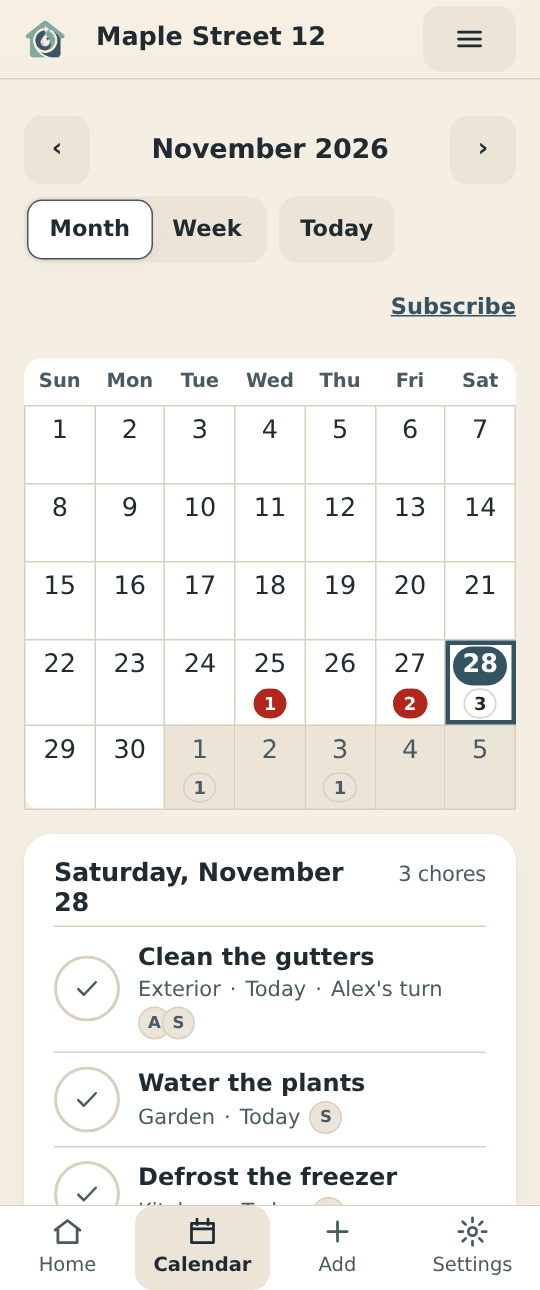
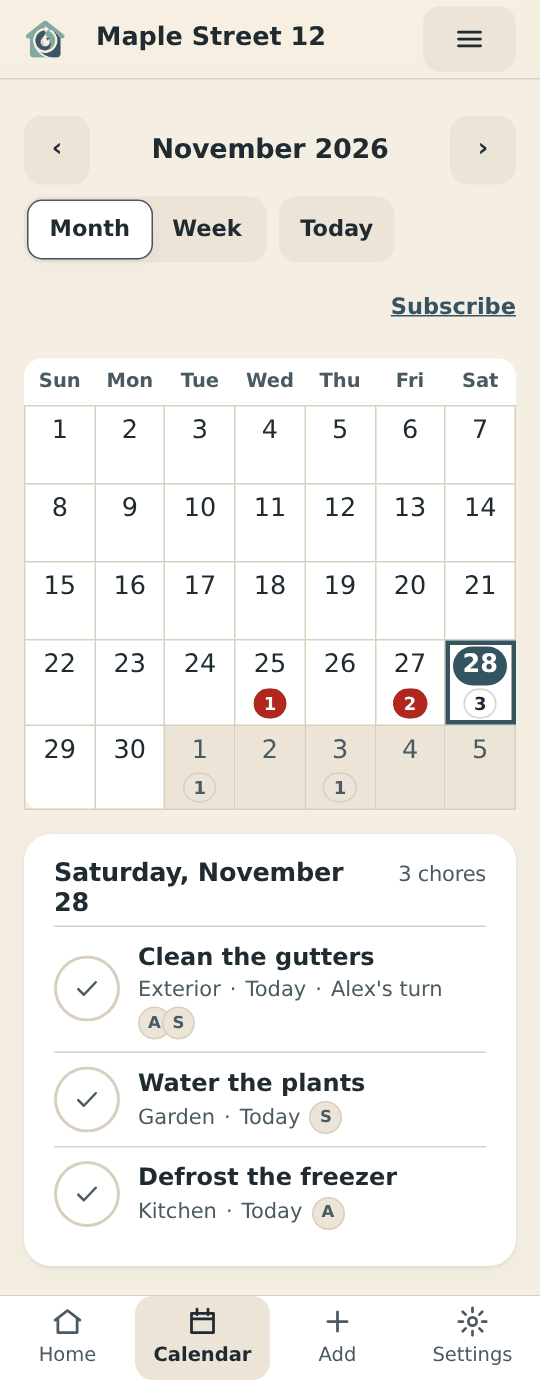
Screenshots: phone calendar tall enough for the selected day's list above the tab bar
Claude-Session: https://claude.ai/code/session_012sYw2vmpP5C3ScwTST1Hwi

diff --git a/web/e2e/screenshots.spec.ts b/web/e2e/screenshots.spec.ts
@@ -131,7 +131,7 @@ test("README and website screenshots", async ({ world, browser }) => {
     "/calendar",
     "calendar-phone-light.png",
     "light",
-    { width: 360, height: 860 },
+    { width: 360, height: 920 },
     1.5,
     "Subscribe",
   );
